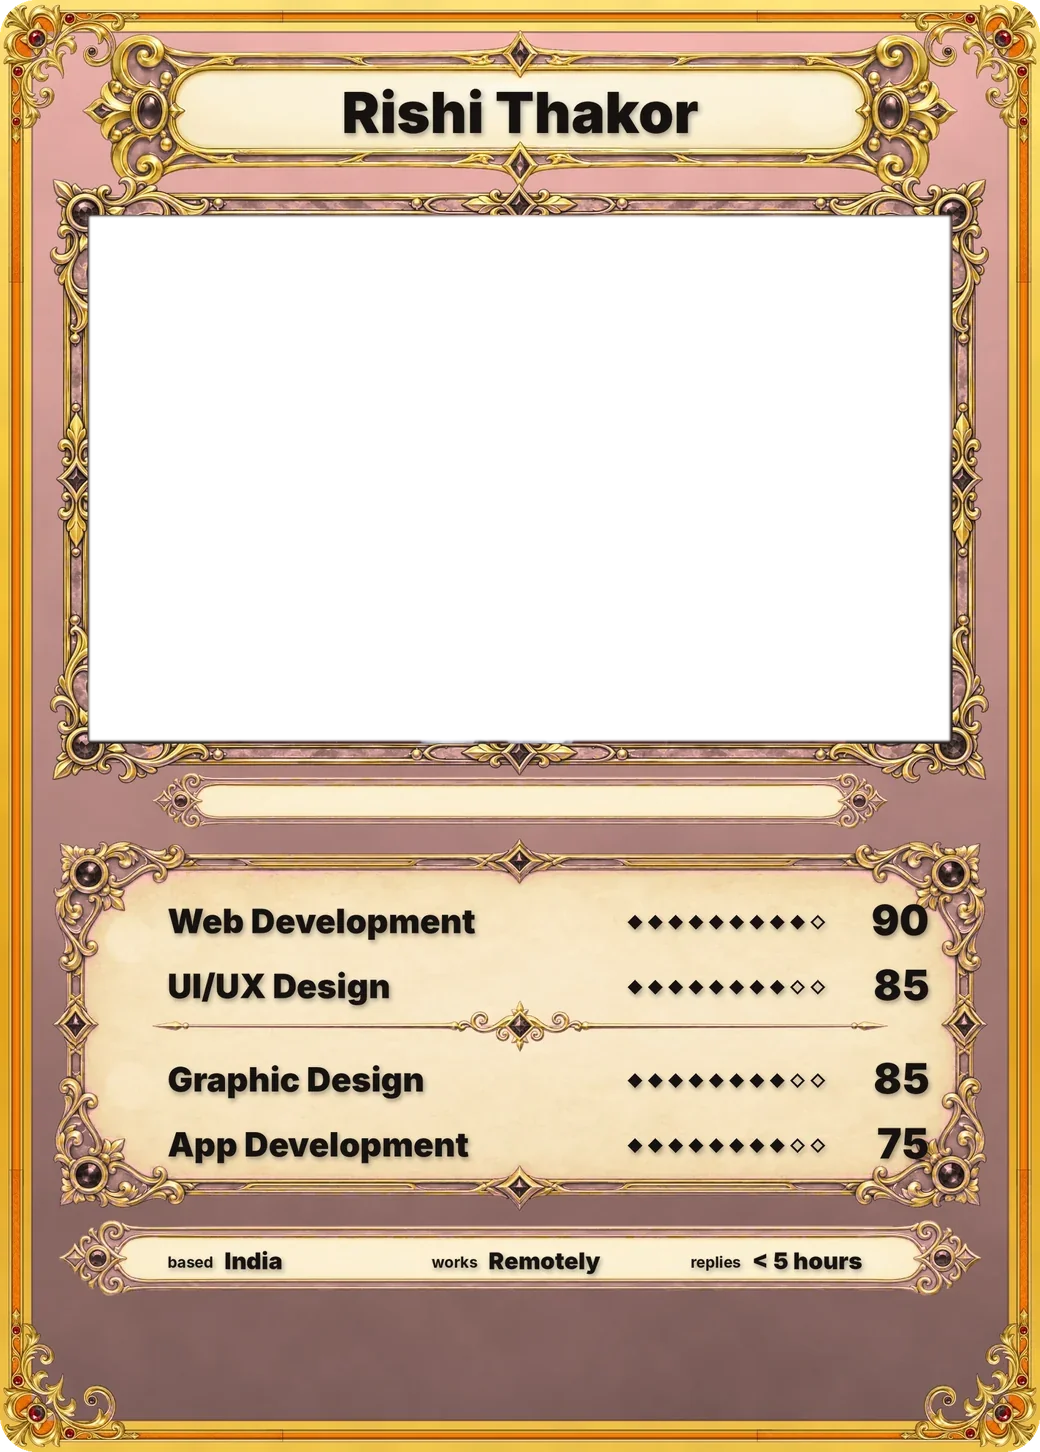
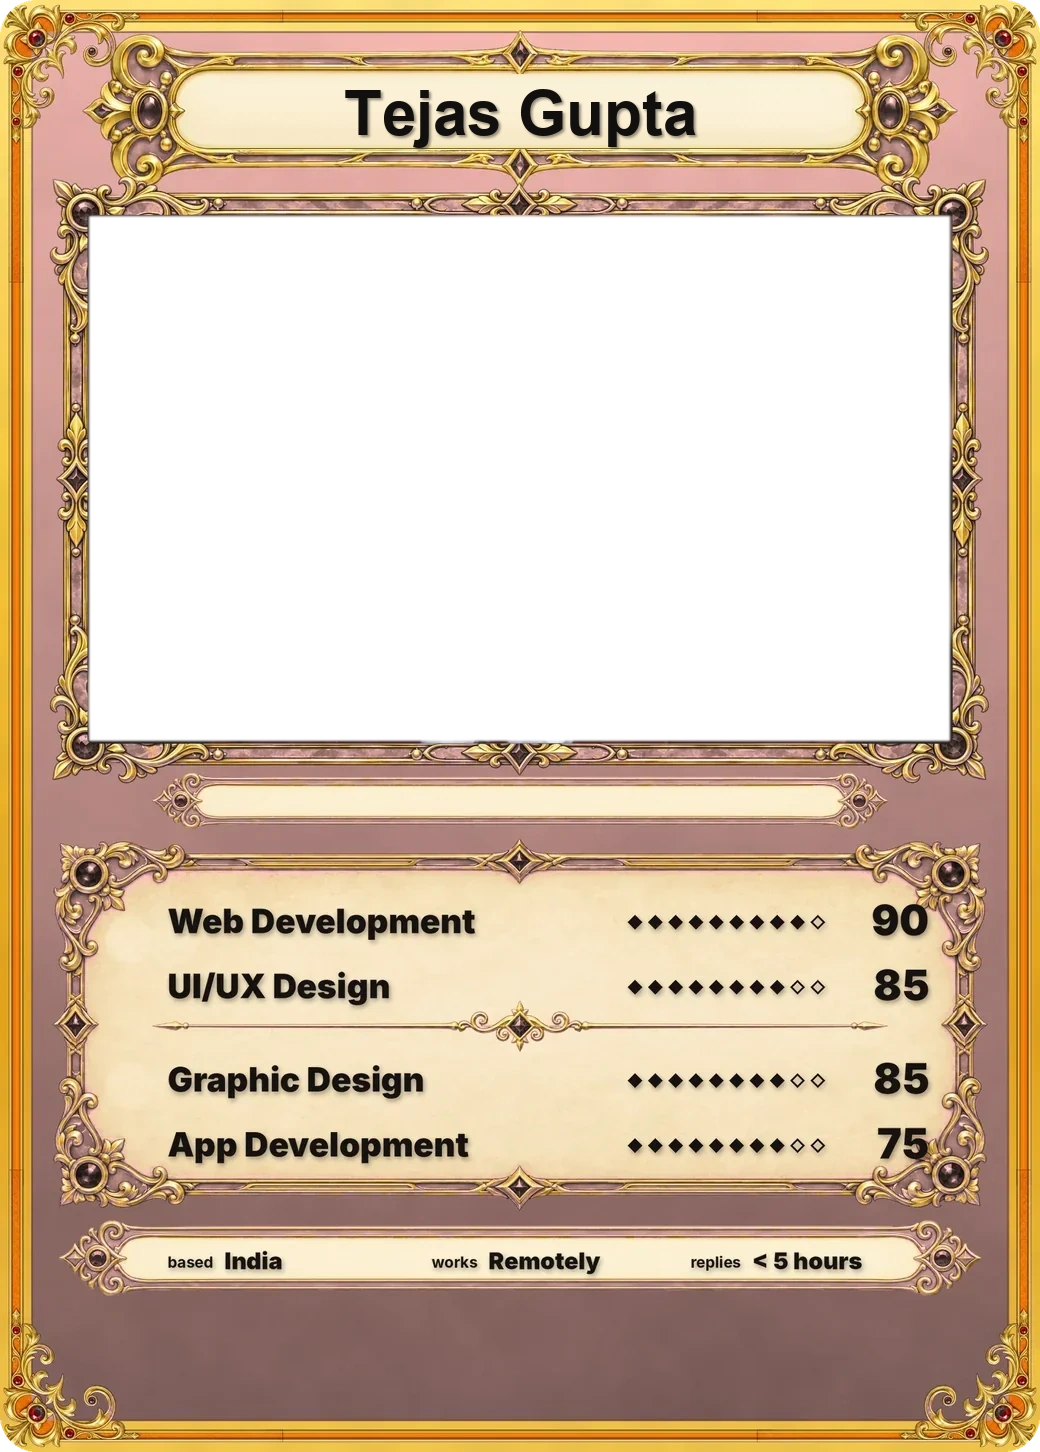
fix: update ability card plate name and metadata to Tejas Gupta

Changed region(s): [[0.3077, 0.062, 0.6769, 0.124]]

diff --git a/index.html b/index.html
@@ -1,4 +1,4 @@
-<!DOCTYPE html>
+<!DOCTYPE html>
 <html lang="en">
 <head>
 <meta charset="UTF-8" />
@@ -903,7 +903,7 @@ body{margin:0}
 @media (max-width:767.98px){.totop{width:3rem;height:3rem}}
 @media (prefers-reduced-motion:reduce){.totop,.totop svg.ar{transition:opacity .2s ease,visibility 0s linear .2s}}
 </style>
-<script>try{if(localStorage.getItem('rishi-mode')==='dark'){document.documentElement.dataset.mode='dark';document.querySelector('meta[name=theme-color]')}}catch(e){}</script>
+<script>try{if(localStorage.getItem('tejas-mode')==='dark'){document.documentElement.dataset.mode='dark';document.querySelector('meta[name=theme-color]')}}catch(e){}</script>
 <script>
 /* modest devices get the same site with the heaviest per-frame effects eased off */
 (function(){var n=navigator,m=n.deviceMemory||8,c=n.hardwareConcurrency||8,s=n.connection&&n.connection.saveData;
@@ -920,17 +920,17 @@ if(m<=2||c<=2||s)document.documentElement.classList.add('lite');})();
 <meta property="og:site_name" content="Tejas Gupta" />
 <meta property="og:locale" content="en_US" />
 <meta property="og:url" content="https://tejasgupta.dev/" />
-<meta property="og:title" content="Tejas Gupta — Full-Stack Developer, Enterprise Platforms &amp; GenAI Builder" />
+<meta property="og:title" content="Tejas Gupta: Full-Stack Developer, Enterprise Platforms &amp; GenAI Builder" />
 <meta property="og:description" content="Freelance developer and designer building websites, iOS apps and brand design for clients in the US, UK and worldwide. Working remotely, replies within 5 hours." />
 <meta property="og:image" content="https://tejasgupta.dev/og.jpg" />
 <meta property="og:image:width" content="1200" />
 <meta property="og:image:height" content="630" />
 <meta property="og:image:alt" content="Tejas Gupta&#39;s portfolio" />
 <meta name="twitter:card" content="summary_large_image" />
-<meta name="twitter:title" content="Tejas Gupta — Full-Stack Developer, Enterprise Platforms &amp; GenAI Builder" />
+<meta name="twitter:title" content="Tejas Gupta: Full-Stack Developer, Enterprise Platforms &amp; GenAI Builder" />
 <meta name="twitter:description" content="Freelance developer and designer building websites, iOS apps and brand design for clients in the US, UK and worldwide. Working remotely, replies within 5 hours." />
 <meta name="twitter:image" content="https://tejasgupta.dev/og.jpg" />
-<script type="application/ld+json">{"@context":"https://schema.org","@graph":[{"@type":"Person","@id":"https://tejasgupta.dev/#rishi","name":"Tejas Gupta","url":"https://therishithakor.com","jobTitle":"Freelance Developer, Designer and Photographer","image":"https://tejasgupta.dev/og.jpg","description":"Freelance web and iOS developer, UI/UX designer, graphic designer and photographer working remotely with clients worldwide.","knowsAbout":["Web development","iOS app development","UI/UX design","Graphic design","Brand identity","Photography"],"address":{"@type":"PostalAddress","addressCountry":"IN"},"knowsLanguage":["en"],"worksFor":{"@id":"https://tejasgupta.dev/#org"}},{"@type":"Organization","@id":"https://tejasgupta.dev/#org","name":"Tejas Gupta — Design & Development","alternateName":"Tejas Gupta","url":"https://therishithakor.com","image":"https://tejasgupta.dev/og.jpg","logo":{"@type":"ImageObject","url":"https://tejasgupta.dev/icon-512.png","width":512,"height":512},"founder":{"@id":"https://tejasgupta.dev/#rishi"},"email":"tejasgupta079@gmail.com","telephone":"+918708999193","sameAs":["https://github.com/Tejasgupta74","https://linkedin.com/in/tejas-gupta-b865a23ba"],"contactPoint":{"@type":"ContactPoint","contactType":"sales","email":"tejasgupta079@gmail.com","availableLanguage":"en","areaServed":["US","GB","CA","AU"]},"description":"Freelance web development, iOS app development, UI/UX design and graphic design, delivered remotely.","areaServed":[{"@type":"Country","name":"United States"},{"@type":"Country","name":"United Kingdom"},{"@type":"Country","name":"Canada"},{"@type":"Country","name":"Australia"},"Worldwide"],"hasOfferCatalog":{"@type":"OfferCatalog","name":"Services","itemListElement":[{"@type":"Offer","itemOffered":{"@type":"Service","name":"Web development","description":"Websites and web applications designed and built end to end."}},{"@type":"Offer","itemOffered":{"@type":"Service","name":"iOS app development","description":"Native iOS apps and games, from first sketch to the App Store."}},{"@type":"Offer","itemOffered":{"@type":"Service","name":"UI/UX design","description":"Product and interface design: user flows, wireframes and finished UI."}},{"@type":"Offer","itemOffered":{"@type":"Service","name":"Graphic design","description":"Brand identity, social media creatives, posters and logos."}},{"@type":"Offer","itemOffered":{"@type":"Service","name":"Photography","description":"Portrait, event and street photography."}}]}},{"@type":"WebSite","@id":"https://tejasgupta.dev/#site","url":"https://therishithakor.com","name":"Tejas Gupta — Portfolio","publisher":{"@id":"https://tejasgupta.dev/#rishi"},"inLanguage":"en"}]}</script>
+<script type="application/ld+json">{"@context":"https://schema.org","@graph":[{"@type":"Person","@id":"https://tejasgupta.dev/#tejas","name":"Tejas Gupta","url":"https://tejasgupta.dev","jobTitle":"Full-Stack Developer, Enterprise Platforms & GenAI Builder","image":"https://tejasgupta.dev/og.jpg","description":"Full-stack developer and computer science engineer specializing in institutional ERPs, GenAI systems, and modern web applications.","knowsAbout":["Full-Stack Web Development","ServiceNow CSA/CAD","Enterprise ERP Architecture","GenAI & NLP Systems","Cloud Architecture"],"address":{"@type":"PostalAddress","addressCountry":"IN"},"knowsLanguage":["en"],"worksFor":{"@id":"https://tejasgupta.dev/#org"}},{"@type":"Organization","@id":"https://tejasgupta.dev/#org","name":"Tejas Gupta: Design & Development","alternateName":"Tejas Gupta","url":"https://tejasgupta.dev","image":"https://tejasgupta.dev/og.jpg","logo":{"@type":"ImageObject","url":"https://tejasgupta.dev/icon-512.png","width":512,"height":512},"founder":{"@id":"https://tejasgupta.dev/#tejas"},"email":"tejasgupta079@gmail.com","telephone":"+918708999193","sameAs":["https://github.com/Tejasgupta74","https://linkedin.com/in/tejas-gupta-b865a23ba"],"contactPoint":{"@type":"ContactPoint","contactType":"sales","email":"tejasgupta079@gmail.com","availableLanguage":"en","areaServed":["US","GB","CA","AU"]},"description":"Full-stack web development, enterprise systems and GenAI development.","areaServed":[{"@type":"Country","name":"United States"},{"@type":"Country","name":"United Kingdom"},{"@type":"Country","name":"Canada"},{"@type":"Country","name":"Australia"},"Worldwide"],"hasOfferCatalog":{"@type":"OfferCatalog","name":"Services","itemListElement":[{"@type":"Offer","itemOffered":{"@type":"Service","name":"Web development","description":"Websites and web applications designed and built end to end."}},{"@type":"Offer","itemOffered":{"@type":"Service","name":"Enterprise Platforms","description":"ServiceNow workflows and institutional ERP solutions."}},{"@type":"Offer","itemOffered":{"@type":"Service","name":"GenAI Applications","description":"Intelligent AI tools, ATS resume analyzers, and computer vision models."}}]}},{"@type":"WebSite","@id":"https://tejasgupta.dev/#site","url":"https://tejasgupta.dev","name":"Tejas Gupta: Portfolio","publisher":{"@id":"https://tejasgupta.dev/#tejas"},"inLanguage":"en"}]}</script>
 <meta name="google-site-verification" content="dB3k2roAkI1S8861shwLsjVKNyl1q-TjchYYJWrG-18" /></head>
 <body>
 
@@ -1360,7 +1360,7 @@ if(m<=2||c<=2||s)document.documentElement.classList.add('lite');})();
 <!-- ============ NavMenu ============ -->
 <div class="navm" id="navm" role="dialog" aria-modal="true" aria-label="Menu" hidden>
   <div class="shell navm__top">
-    <span class="brand"><svg aria-hidden="true" focusable="false" viewBox="0 0 48 48" fill="currentColor"><path d="M24 2c2.2 13.8 7.9 19.6 22 22-14.1 2.4-19.8 8.2-22 22-2.2-13.8-7.9-19.6-22-22 14.1-2.4 19.8-8.2 22-22Z"/></svg>Rishi</span>
+    <span class="brand"><svg aria-hidden="true" focusable="false" viewBox="0 0 48 48" fill="currentColor"><path d="M24 2c2.2 13.8 7.9 19.6 22 22-14.1 2.4-19.8 8.2-22 22-2.2-13.8-7.9-19.6-22-22 14.1-2.4 19.8-8.2 22-22Z"/></svg>Tejas</span>
     <button class="close-btn" id="navClose"><svg aria-hidden="true" focusable="false" viewBox="0 0 24 24" fill="none" stroke="currentColor" stroke-width="2" stroke-linecap="round"><path d="M4 4l16 16M20 4 4 20"/></svg>Close</button>
   </div>
   <nav class="shell navm__nav" aria-label="Menu"><ul id="navList"></ul></nav>
@@ -1573,14 +1573,14 @@ $('#mPanel').addEventListener('click', e => e.stopPropagation());
 $('#mClose').addEventListener('click', closeModal);
 $('#mDone').addEventListener('click', closeModal);
 // the form sends for real only on the live website (Netlify receives it); anywhere else it opens an email
-const FORM_LIVE = /(^|\.)therishithakor\.com$|\.netlify\.app$/.test(location.hostname);
+const FORM_LIVE = /(^|\.)tejasgupta\.dev$|\.vercel\.app$|\.netlify\.app$/.test(location.hostname);
 const SEND_LABEL = FORM_LIVE ? 'Send message' : 'Write the email';
 $('#mSendLbl').textContent = SEND_LABEL;
 form.addEventListener('submit', e => {
   e.preventDefault();
   const d = new FormData(form), name = (d.get('name') || '').trim(), mail = (d.get('email') || '').trim(), proj = (d.get('project') || '').trim();
   const subject = `New project enquiry from ${name}`;
-  const body = `Hi Rishi,\n\n${proj}\n\n— ${name}\n${mail}`;
+  const body = `Hi Tejas,\n\n${proj}\n\n- ${name}\n${mail}`;
   const viaMail = () => {
     location.href = `mailto:${CONTACT_EMAIL}?subject=${encodeURIComponent(subject)}&body=${encodeURIComponent(body)}`;
     $('#mOkT').textContent = 'Almost there';
@@ -1781,7 +1781,7 @@ if (matchMedia('(max-width: 1023.98px), (hover: none)').matches){
 } else liquidReveal($('#fig'), $('#figCanvas'), COLOUR_SRC);
 
 /* ---------- Mode (light / dark) ---------- */
-const MODE_KEY = 'rishi-mode';
+const MODE_KEY = 'tejas-mode';
 const themeMeta = document.querySelector('meta[name="theme-color"]');
 let modeAnimT = 0;
 function getMode(){ return root.dataset.mode === 'dark' ? 'dark' : 'light'; }
@@ -3083,7 +3083,7 @@ if (['#works', '#about', '#contact'].includes(location.hash)){
 <div class="ck" id="ck" role="region" aria-label="Analytics choice" hidden><p>May I count your visit with Google Analytics? It sets cookies. <a href="/legal/">Details</a></p><div><button type="button" data-ck="no">No thanks</button><button type="button" data-ck="yes">Allow</button></div></div>
 <script>
 (() => {
-  const ID = 'G-12PNLHKGHK', K = 'rishi-analytics';
+  const ID = 'G-12PNLHKGHK', K = 'tejas-analytics';
   let v = null; try { v = localStorage.getItem(K); } catch (e) {}
   const load = () => {
     window.dataLayer = window.dataLayer || [];
